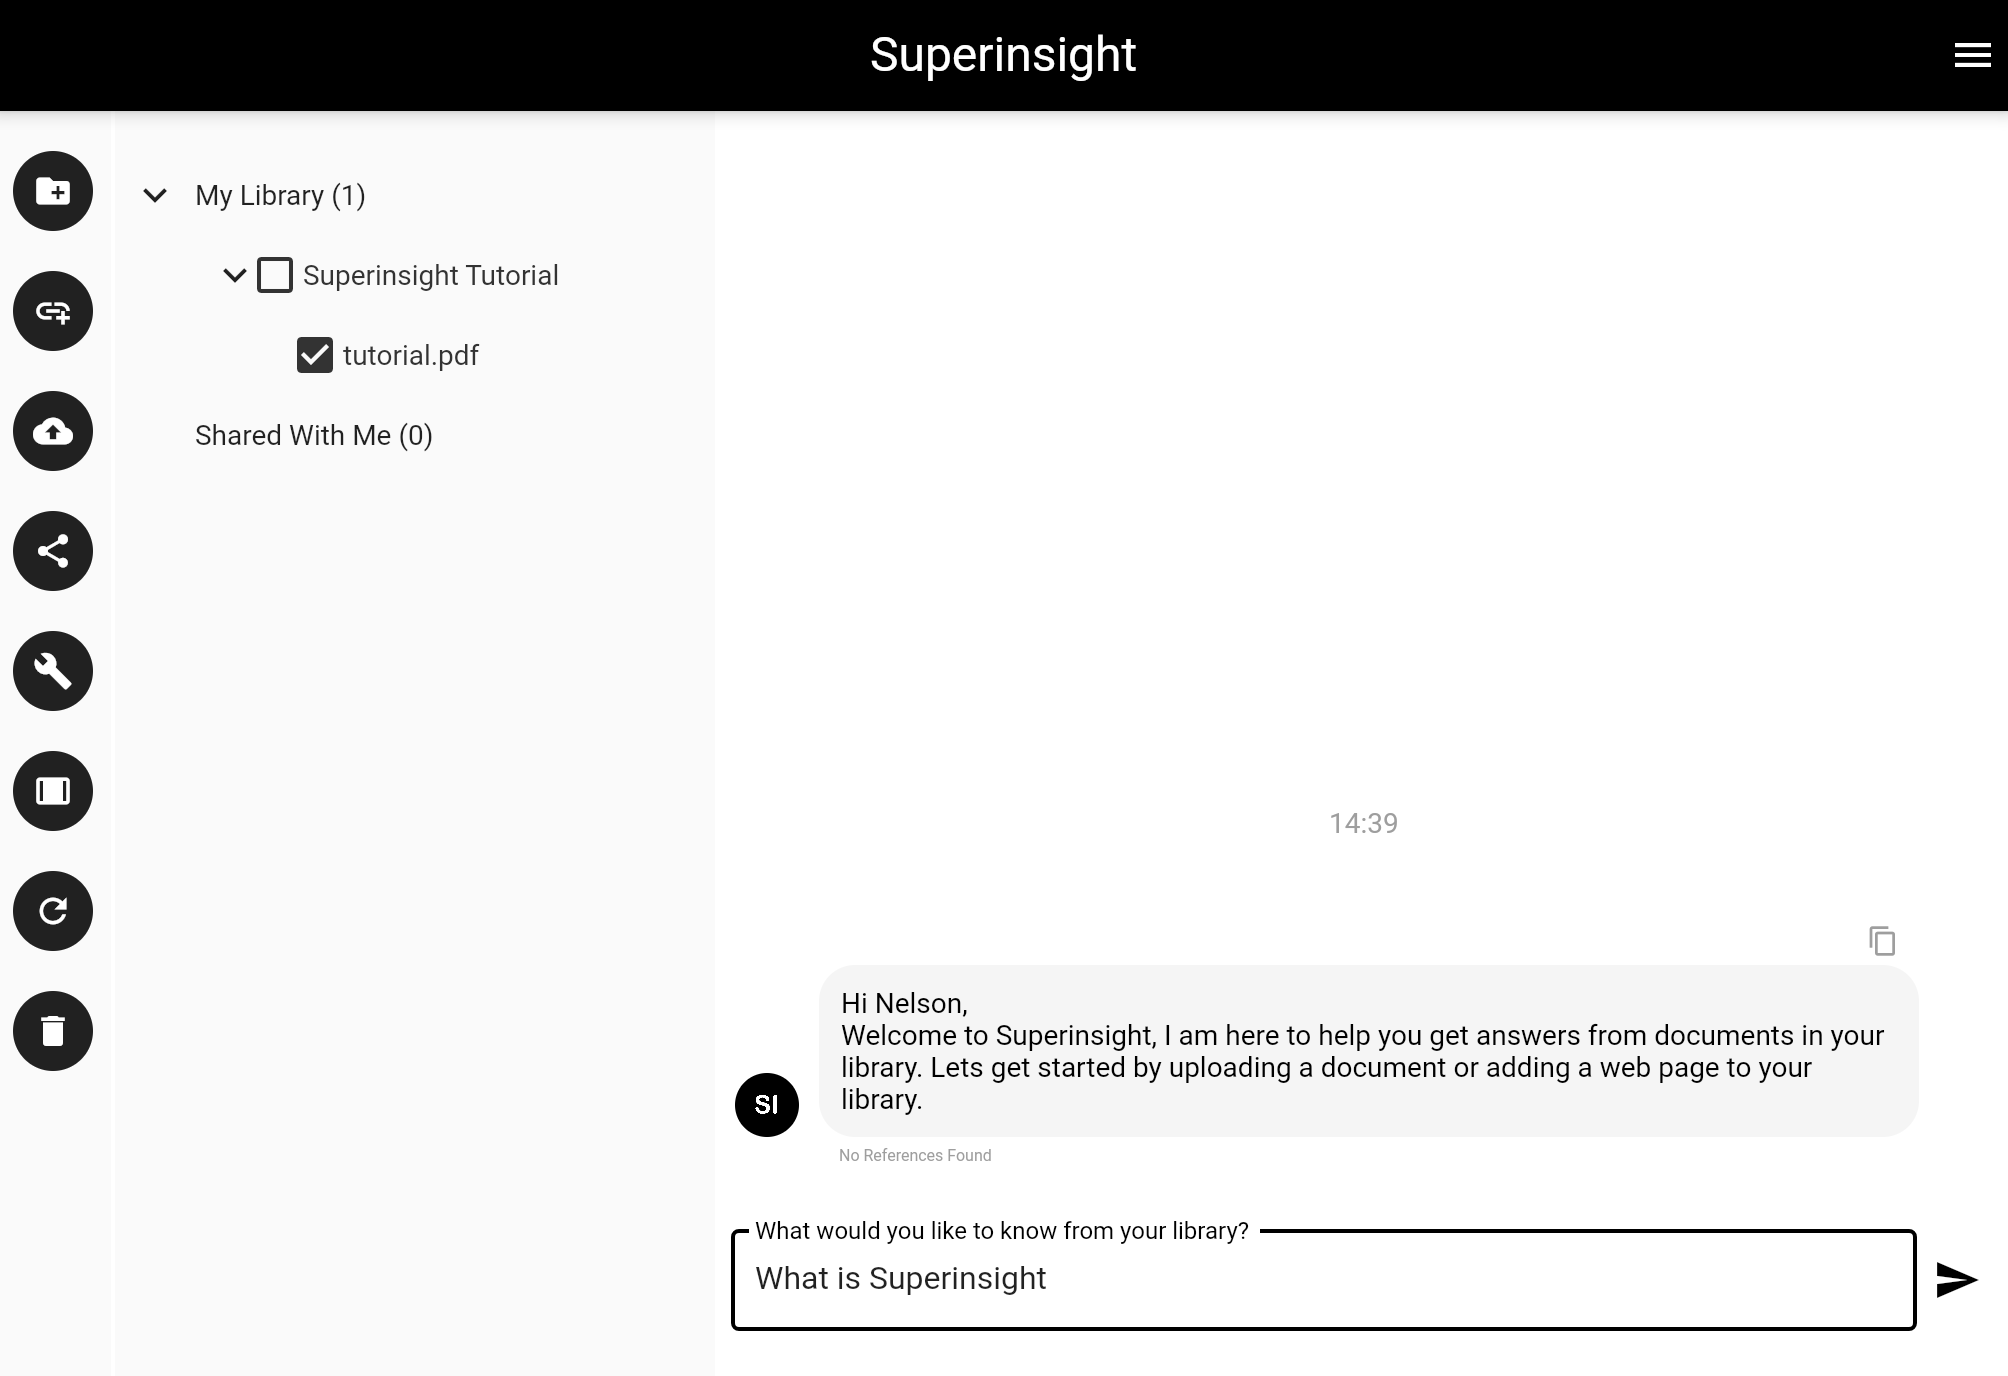
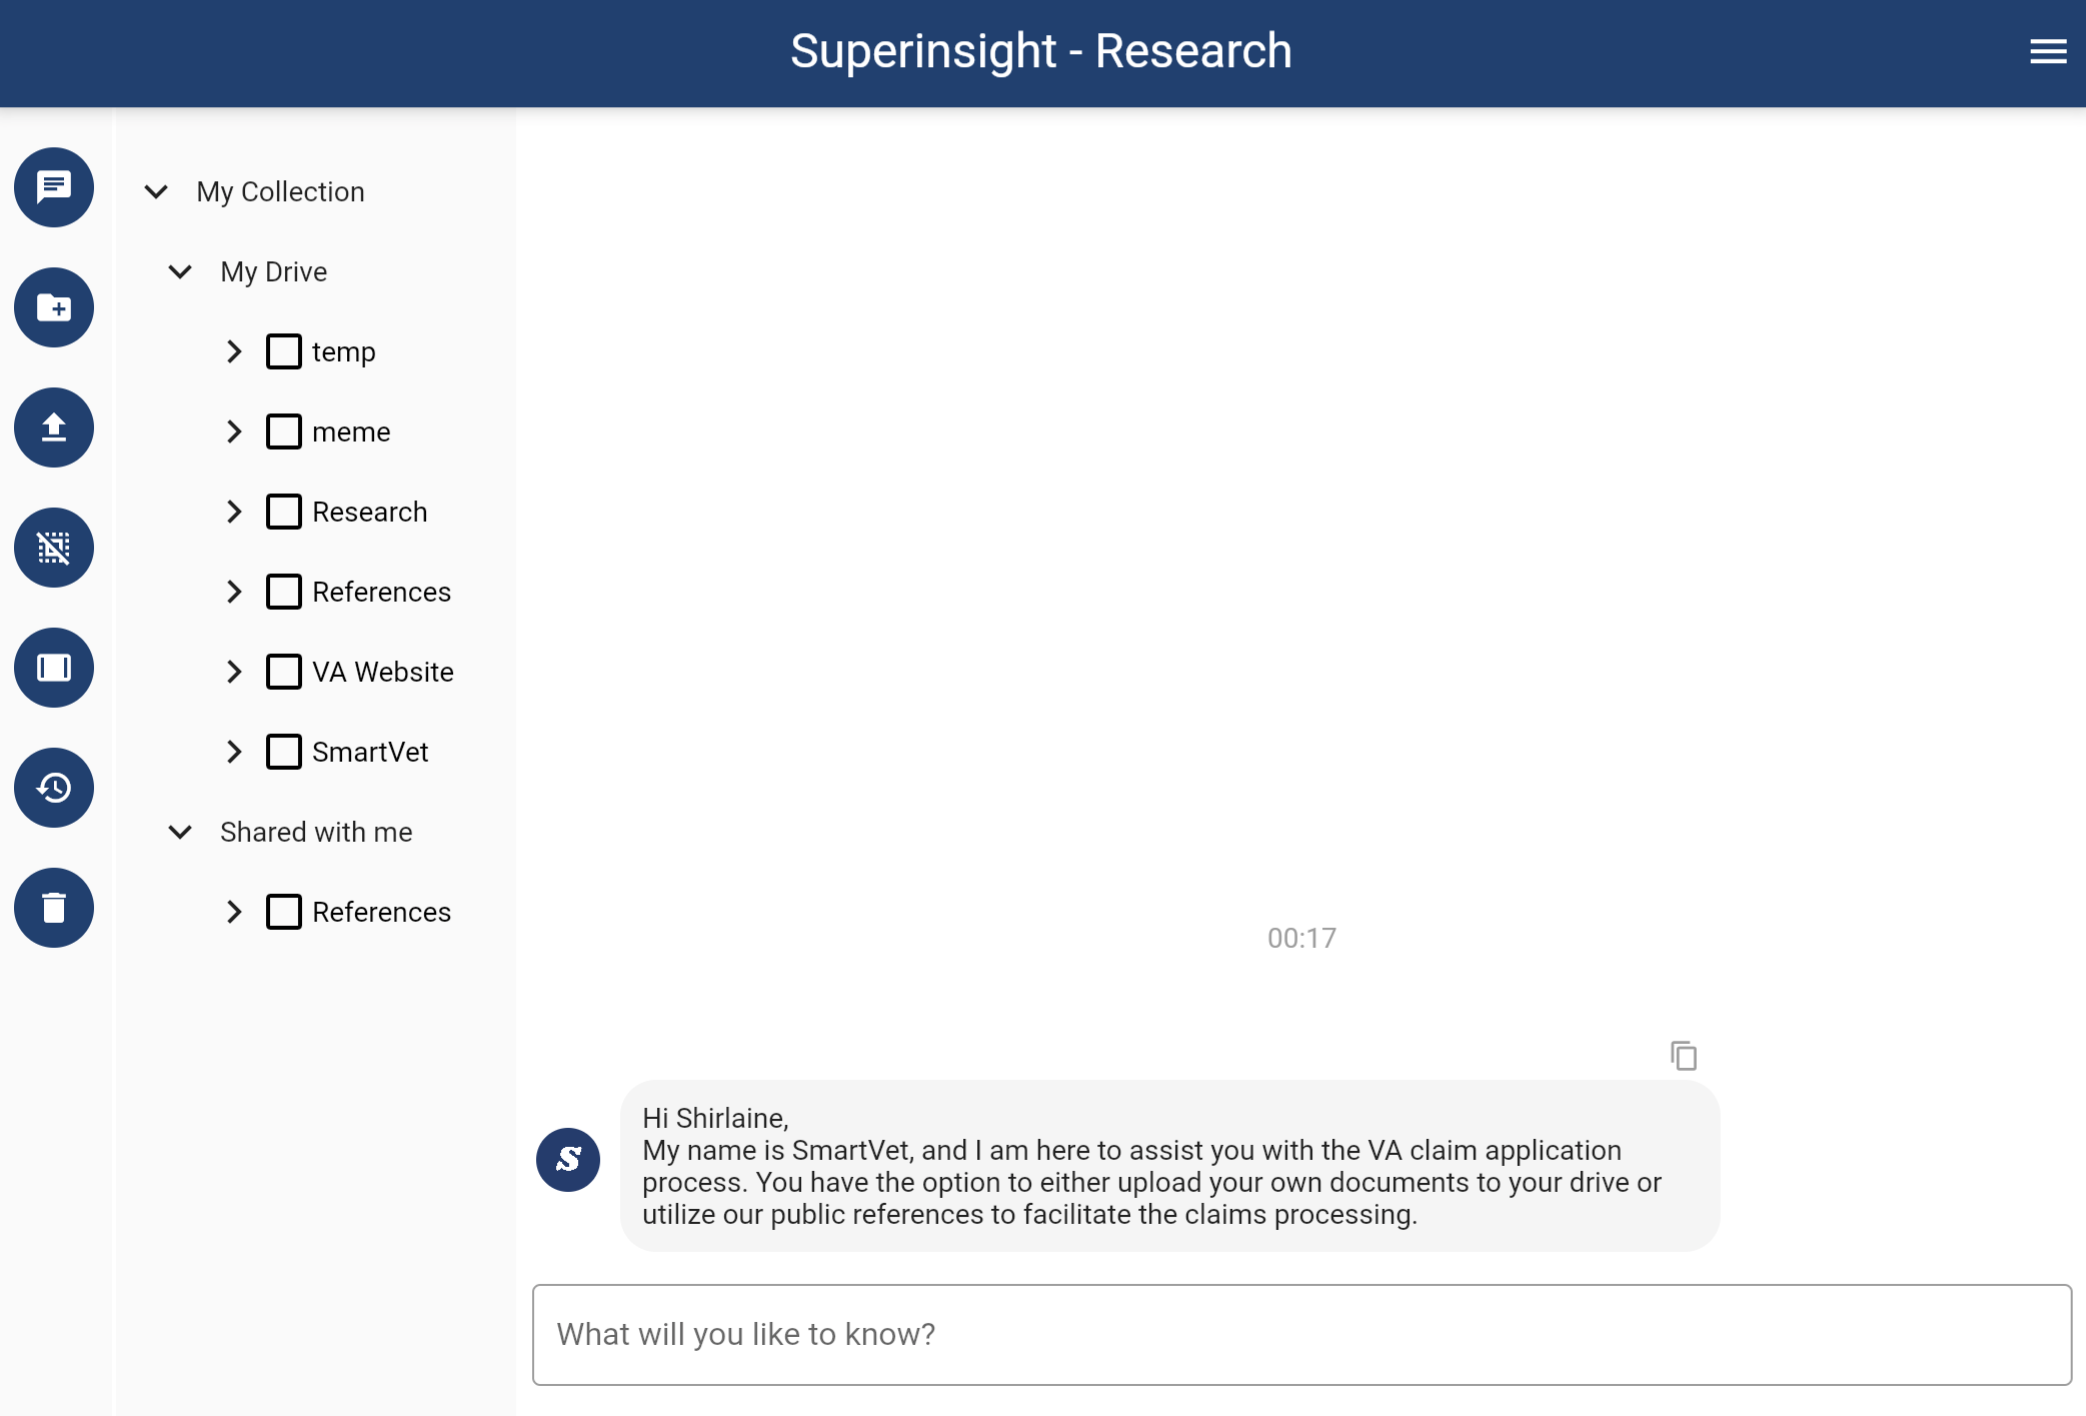
VA case management updates

diff --git a/docs/quickstart.md b/docs/quickstart.md
@@ -1,41 +1,62 @@
 # Quickstart
 
 This is a quickstart guide on how to use Superinsight.
-You will learn how to create a your own knowledge base and disover insights.
-If you don't have an account yet, sign up to [for access](https://app.superinsight.me) here.
+You will learn how to create your knowledge base of case contacts and how to discover insights from veterans' massive and messy documentation even hand-written files like medical reports.
 
-## 1. Create a Folder
+If you don't have an account yet, sign up [for access](https://app.superinsight.me) here.
 
-The best way to organize your knowledge base is by separating your files by folders. Create a folder call Superinsight Tutorial.
+## 1. Start a New Case
 
-![Create Folder](assets/images/tutorial/create-folder.png)
+Build up your case information before everything, the first step is to add your contacts. Fill in all the mandatory fields and save.
+
+![New Case](assets/images/tutorial/start-new-case-2.png)
 
 ## 2. Upload a File
 
-For the purpose of this tutorial, we have prepared a [Sample PDF File](assets/files/tutorial/tutorial.pdf){: title="Download this Sample PDF File before continuing" target="\_blank"} here for you download so you can upload to your new folder. Once a file is uploaded, you will see a pending icon next to yiur file, behind the scence Superinsight to processing all the contents in your file and is helping you to build your knowledge base. Depending on how big your files are, this process can take a few minutes to up to an hour.
+You can upload all the files that can help the veteran claim like STRs, medical evidence, rating decisions, and so on to the folders that Superinsight prepares and organizes for you.
+
+After file is uploaded, you will see it in the folder as a gray color and can not be clicked on. Behind the scenes, Superinsight is processing and analyzing all the contents in your file. Depending on how big your files are, this process can take a few minutes to up to hours.
+
 Once the file is ready, as shown in the screenshots below, you can continue to the next step.
 
-=== "Upload File"
+=== "Upload File To Folder"
 
-    ![Upload File To Folder](assets/images/tutorial/upload-file-to-folder.png)
+    ![Upload File To Folder](assets/images/tutorial/select-upload-folder.png)
 
 === "File In Progress"
 
-    ![File In Progress](assets/images/tutorial/file-pending.png)
+    ![File In Progress](assets/images/tutorial/cases-file-pending.png)
 
 === "File Is Ready"
 
-    ![File In Progress](assets/images/tutorial/file-ready.png)
+    ![File In Progress](assets/images/tutorial/case-file-ready.png)
 
-## 3. Get Answers
+## 3. Get Insights
 
-Once your file is ready, you can click on the file you have uploaded earlier and ask your first question.
+Once your file is ready, you can click on the file you uploaded earlier and Superinsight will show all the key points and insights that are found in the file.
+
+=== "Original File"
+
+    ![Original File](assets/images/tutorial/medical_evidence.png)
+
+=== "File Analysis"
+
+    ![Get Analysis](assets/images/tutorial/doc-analysis.png)
+
+## 4. Ask Questions
+
+If you have ANY further questions on VA, VA claims, or files you uploaded, click the menu on the right-up corner and switch to "Research" ask Superinsight, and get your answer immediately.
+
 After you get your response, you will see two icons on the right top of the message as well. The copy icon allows you to copy your message.
 The information icon will show you the references that was used for this response.
 
+=== "Research"
+
+    ![Research](assets/images/tutorial/case-to-research.png)
+
 === "Ask Question"
 
-    ![File In Progress](assets/images/tutorial/question-1.png)
+    ![Ask Questions](assets/images/tutorial/question-1.png)
 
 === "Get Response"
 
@@ -45,6 +66,6 @@ The information icon will show you the references that was used for this respons
 
     ![File In Progress](assets/images/tutorial/reference-1.png)
 
-## 4. Try More
+## 5. Try More
 
 If you like to learn more advance features, please continue our guide for [How To Guide](guide/index.md)

diff --git a/docs/guide/index.md b/docs/guide/index.md
@@ -1,12 +1,15 @@
 # How To Guide
 
-Superinsight is a cutting-edge business intelligence tool designed to help you unlock valuable insights from your knowledge base.
+Superinsight is a cutting-edge intelligence tool designed to streamline the VA claim process. This not only reduces your workload but also empowers you to process claims at remarkable speed.
+
 Learn more about Superinsight with the following How To Guide.
 
-| How To                                    | Overview                       |
-| ---------------------------------         | ------------------------------ |
-| [Start Conversation](new-conversation.md)    | Start New Conversation         |
+| How To                                       | Overview                       |
+| ---------------------------------            | ------------------------------ |
+| [Manage Contact](case-contact.md)            | Add a new contact              |
+| [Veteran File](case-files.md)                | Manage cases relevant files    |
+| [Start Conversation](new-conversation.md)    | Start a new conversation       |
 | [Create Folder](folder-create.md)            | Create folder                  |
-| [Upload File](file-upload.md)                | Upload File                    |
+| [Upload File](file-upload.md)                | Upload file                    |
 | [View History](history.md)                   | Load your history chat         |
 

diff --git a/docs/guide/file-upload.md b/docs/guide/file-upload.md
@@ -1,11 +1,12 @@
 # Upload a File
 
-For the purpose of this tutorial, we have prepared a [Sample PDF File](../assets/files/tutorial/tutorial.pdf){: title="Download this Sample PDF File before continuing" target="\_blank"} here for you download so you can upload to your new folder. Once a file is uploaded, you will see a pending icon next to your file, behind the scence Superinsight to processing all the contents in your file and is helping you to build your knowledge base. Depending on how big your files are, this process can take a few minutes to up to an hour.
+Select the folder you want to upload the file to. After file is uploaded, you will see a pending icon next to your file. Behind the scenes, Superinsight is processing all the contents in your file and helping you to build your knowledge base. Depending on how big your files are, this process can take a few minutes to up to an hour.
+
 Once the file is ready, as shown in the screenshots below, you can continue to the next step.
 
 !!! note "Supported File Types"
 
-    Superinsight supports TXT, PDF, DOC, DOCX, MP3, MP4, M4A, CSV, XLSX and XLS files.
+    Superinsight supports txt, pdf, doc, docx, mp3, mp4, m4a, csv, xlsx and xls files.
 
 === "Upload File"
 

diff --git a/docs/guide/case-files.md b/docs/guide/case-files.md
@@ -1,0 +1,27 @@
+# Veteran File
+
+You can upload all the files that can help the veteran claim like STRs, medical evidence, rating decisions, and so on to the folders that Superinsight prepares and organizes for you.
+
+After file is uploaded, you will see it in the folder as a gray color and can not be clicked on. Behind the scenes, Superinsight is processing and analyzing all the contents in your file. Depending on how big your files are, this process can take a few minutes to up to hours.
+
+=== "Upload File To Folder"
+
+    ![Upload File To Folder](../assets/images/tutorial/select-upload-folder.png)
+
+=== "File In Progress"
+
+    ![File In Progress](../assets/images/tutorial/cases-file-pending.png)
+
+=== "File Is Ready"
+
+    ![File In Progress](../assets/images/tutorial/case-file-ready.png)
+
+Once your file is ready, you can click on the file you uploaded earlier and Superinsight will show all the key points and insights that are found in the file.
+
+=== "Original File"
+
+    ![Original File](../assets/images/tutorial/medical_evidence.png)
+
+=== "File Analysis"
+
+    ![Get Analysis](../assets/images/tutorial/doc-analysis.png)

diff --git a/docs/guide/case-contact.md b/docs/guide/case-contact.md
@@ -1,0 +1,18 @@
+# Manage Contacts
+
+Build up your case information before everything! Click "Start a New Case" or the "New Case" button in the navigation on left to add a new contact.
+
+Fill in all the mandatory fields and save. The contact list will shown on the left and you can easily switch contacts to modify or delete their personal info.
+
+
+=== "New Case"
+
+    ![Upload File To Folder](../assets/images/tutorial/start-new-case-1.png)
+
+=== "Contact Info"
+
+    ![File In Progress](../assets/images/tutorial/start-new-case-2.png)
+
+=== "Contact List"
+
+    ![File In Progress](../assets/images/tutorial/start-new-case-3.png)
